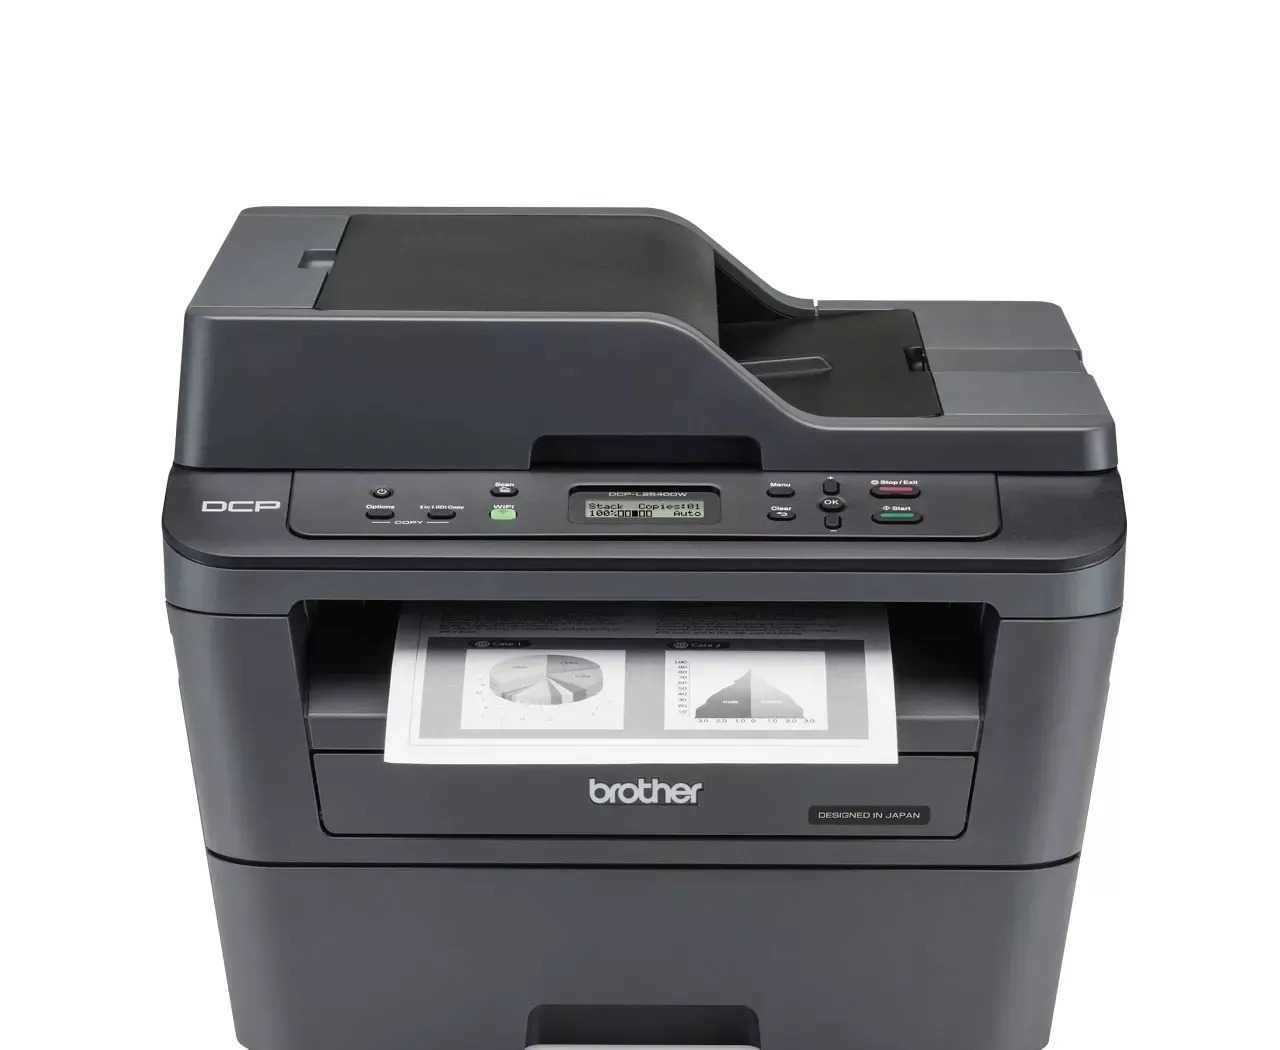
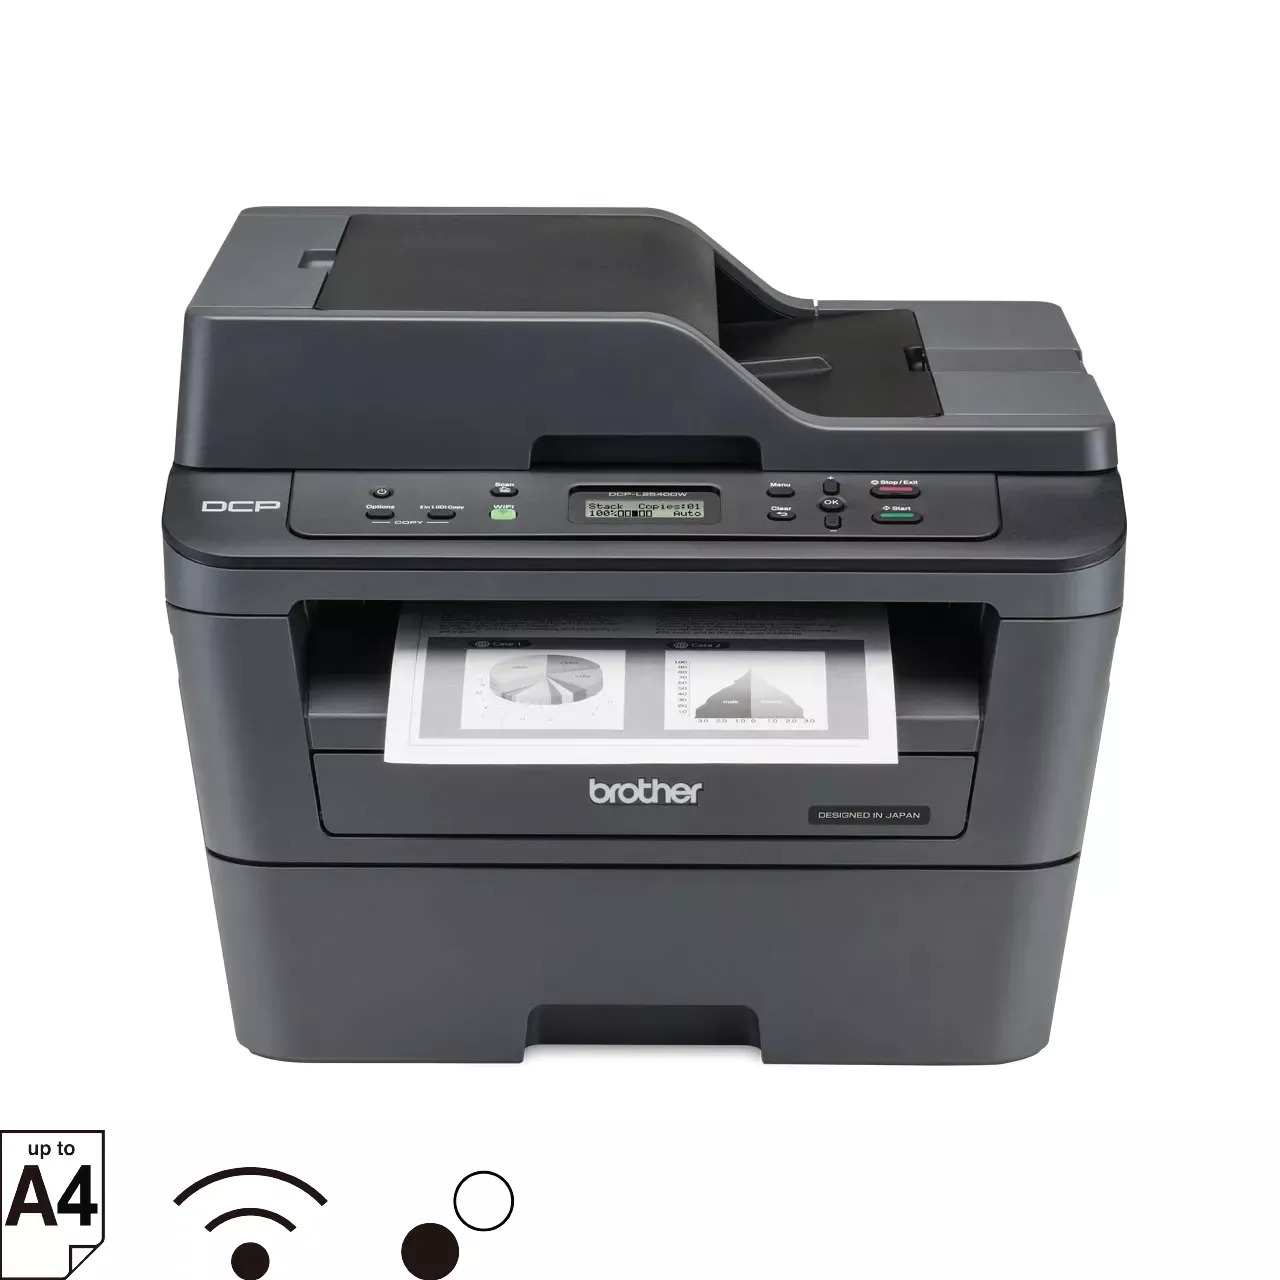
Add files via upload

diff --git a/index.html b/index.html
@@ -4,7 +4,7 @@
   <meta charset="UTF-8"/>
   <meta name="viewport" content="width=device-width, initial-scale=1.0"/>
   <title>Levo Box | Dealer Resmi Printer Brother Makassar</title>
-  <meta name="description" content="Levo Box — dealer resmi printer Brother DCP-L2540DW dan MFC-L2700D di Makassar. Garansi Resmi Brother 3 Tahun. Tinta Brother LC583 original tersedia. Jl. Bacan No. 5, Makassar."/>
+  <meta name="description" content="Levo Box — printer Brother, mesin jilid TATA (Hamburg, Kassel, e-WIRO, E-BIND, HP-2), tinta asli, dan perlengkapan kantor di Makassar. Dealer resmi. Jl. Bacan No. 5."/>
   <meta name="keywords" content="levo box makassar, printer brother makassar, dealer resmi brother, DCP-L2540DW, MFC-L2700D, tinta brother LC583, jual printer laser makassar"/>
   <link rel="canonical" href="https://levobox.com/"/>
   <link rel="alternate" hreflang="id" href="https://levobox.com/"/>
@@ -25,7 +25,7 @@
   "@context": "https://schema.org",
   "@type": "LocalBusiness",
   "name": "Levo Box",
-  "description": "Dealer resmi printer Brother dan perlengkapan kantor di Makassar.",
+  "description": "Dealer resmi printer Brother, mesin jilid TATA, tinta asli, dan perlengkapan kantor di Makassar.",
   "url": "https://levobox.com/",
   "telephone": "[phone redacted]",
   "image": "https://levobox.com/images/Brother_Banner_Solusi_Cetak_Yang_Andal_2.png",
@@ -100,6 +100,91 @@
             "availability": "https://schema.org/InStock"
           }
         }
+      },
+      {
+        "@type": "Offer",
+        "itemOffered": {
+          "@type": "Product",
+          "name": "TATA HP-2 HO-PUNCH",
+          "brand": {
+            "@type": "Brand",
+            "name": "TATA"
+          },
+          "description": "Mesin Pelubang Kertas 2-Lubang Berat, 520 lembar",
+          "offers": {
+            "@type": "Offer",
+            "priceCurrency": "IDR",
+            "availability": "https://schema.org/InStock"
+          }
+        }
+      },
+      {
+        "@type": "Offer",
+        "itemOffered": {
+          "@type": "Product",
+          "name": "TATA HAMBURG",
+          "brand": {
+            "@type": "Brand",
+            "name": "TATA"
+          },
+          "description": "Mesin Jilid Plastik Comb 24-Lubang",
+          "offers": {
+            "@type": "Offer",
+            "priceCurrency": "IDR",
+            "availability": "https://schema.org/InStock"
+          }
+        }
+      },
+      {
+        "@type": "Offer",
+        "itemOffered": {
+          "@type": "Product",
+          "name": "TATA KASSEL",
+          "brand": {
+            "@type": "Brand",
+            "name": "TATA"
+          },
+          "description": "Mesin Jilid 3-in-1 Plastik dan Kawat",
+          "offers": {
+            "@type": "Offer",
+            "priceCurrency": "IDR",
+            "availability": "https://schema.org/InStock"
+          }
+        }
+      },
+      {
+        "@type": "Offer",
+        "itemOffered": {
+          "@type": "Product",
+          "name": "TATA e-WIRO-31",
+          "brand": {
+            "@type": "Brand",
+            "name": "TATA"
+          },
+          "description": "Mesin Jilid Twin Loop Wire 34-Lubang 3:1",
+          "offers": {
+            "@type": "Offer",
+            "priceCurrency": "IDR",
+            "availability": "https://schema.org/InStock"
+          }
+        }
+      },
+      {
+        "@type": "Offer",
+        "itemOffered": {
+          "@type": "Product",
+          "name": "TATA E-BIND",
+          "brand": {
+            "@type": "Brand",
+            "name": "TATA"
+          },
+          "description": "Mesin Jilid Ekonomis 21-Lubang Single Handle",
+          "offers": {
+            "@type": "Offer",
+            "priceCurrency": "IDR",
+            "availability": "https://schema.org/InStock"
+          }
+        }
       }
     ]
   }
@@ -138,18 +223,7 @@
     .nav-inner{max-width:var(--mxw);margin:0 auto;display:flex;align-items:center;justify-content:space-between;padding:16px var(--px);gap:2rem}
     .nav-logo{display:flex;align-items:center;gap:10px;flex-shrink:0}
     /* 2×2 grid mark */
-    .mark{position:relative;flex-shrink:0}
-    .mark-grid{display:grid;grid-template-columns:1fr 1fr;grid-template-rows:1fr 1fr;gap:2px;width:34px;height:34px}
-    .mark-grid div:nth-child(1){background:var(--t1)}
-    .mark-grid div:nth-child(2){background:#B7BDC6}
-    .mark-grid div:nth-child(3){background:var(--t1)}
-    .mark-grid div:nth-child(4){background:transparent}
     /* light (footer) version */
-    .mark.lt .mark-grid div:nth-child(1){background:#fff}
-    .mark.lt .mark-grid div:nth-child(2){background:#5B6472}
-    .mark.lt .mark-grid div:nth-child(3){background:#fff}
-    .mark-text{display:flex;flex-direction:column;line-height:1.15}
-    .mark-name{font-weight:800;font-size:19px;letter-spacing:-0.01em;color:var(--t1)}
     .mark-name.lt{color:#fff}
     .mark-sub{font-size:11px;color:var(--t3);letter-spacing:0.01em}
     .mark-sub.lt{color:var(--muted)}
@@ -248,8 +322,6 @@
     .footer-inner{max-width:var(--mxw);margin:0 auto}
     .footer-top{display:flex;justify-content:space-between;gap:48px;flex-wrap:wrap;padding-bottom:40px}
     .footer-brand{max-width:280px}
-    .footer-brand-row{display:flex;align-items:center;gap:10px;margin-bottom:6px}
-    .footer-brand-name{font-weight:800;font-size:17px;color:#fff;letter-spacing:-.01em}
     .footer-brand-sub{font-size:11px;color:var(--muted);margin-bottom:12px}
     .footer-brand p{font-size:13.5px;line-height:1.6}
     .footer-links{display:flex;gap:64px;flex-wrap:wrap}
@@ -289,6 +361,33 @@
       .hero-trust{flex-direction:column;gap:10px}
       .footer-bottom{flex-direction:column}
     }
+
+    /* ══ BINDING MACHINES ══ */
+    .ta2col{display:grid;grid-template-columns:repeat(2,1fr);gap:28px}
+    .tac{background:var(--bg1);border:1px solid var(--bdr);border-radius:var(--rl);overflow:hidden;display:flex;flex-direction:column;box-shadow:var(--sh-s);transition:transform .2s,box-shadow .2s}
+    .tac:hover{transform:translateY(-3px);box-shadow:var(--sh-m)}
+    .tac-head{background:var(--navy-900);color:#fff;padding:16px 20px}
+    .tac-type{font-size:10px;font-weight:700;letter-spacing:.12em;text-transform:uppercase;opacity:.65;margin-bottom:4px}
+    .tac-name{font-size:21px;font-weight:800;line-height:1.1;letter-spacing:.01em}
+    .tac-sub{font-size:12px;opacity:.7;margin-top:3px}
+    .tac-img{background:#f8f9fb;border-bottom:1px solid var(--bdr)}
+    .tac-img img{width:100%;aspect-ratio:1/1;object-fit:contain;display:block}
+    .tac-body{padding:20px;display:flex;flex-direction:column;gap:16px;flex:1}
+    .tac-desc{font-size:13.5px;color:var(--t3);line-height:1.65}
+    .tac-table{width:100%;border-collapse:collapse;font-size:12.5px}
+    .tac-table tr:not(:last-child) td{border-bottom:1px solid var(--bdr)}
+    .tac-table td{padding:.45rem .35rem;vertical-align:top;line-height:1.4}
+    .tac-table td:first-child{color:var(--t3);font-weight:700;font-size:11px;text-transform:uppercase;letter-spacing:.04em;width:36%;padding-right:.6rem;white-space:nowrap}
+    .tac-table td:last-child{color:var(--t1);font-weight:500}
+    .tac-hi{font-weight:700;color:var(--blue)}
+    .tac-tags{display:flex;flex-wrap:wrap;gap:6px;padding-top:12px;border-top:1px solid var(--bdr)}
+    .tac-tag{background:var(--tag);color:var(--t2);font-size:11px;font-weight:600;padding:3px 10px;border-radius:999px}
+    .tac-warranty{display:inline-flex;align-items:center;gap:5px;background:#FFF8E1;color:#7B5800;border:1px solid #F0D070;font-size:11.5px;font-weight:700;padding:4px 10px;border-radius:999px}
+    .tac-footer{padding:16px 20px;border-top:1px solid var(--bdr);display:flex;align-items:center;justify-content:space-between}
+    .tac-cta{font-size:13.5px;font-weight:700;color:var(--blue);transition:color .15s}
+    .tac-cta:hover{color:var(--navy-800)}
+    @media(max-width:768px){.ta2col{grid-template-columns:1fr}}
+
   </style>
 </head>
 <body>
@@ -296,26 +395,18 @@
 <!-- ═══ NAV ═══ -->
 <nav>
   <div class="nav-inner">
-    <div class="nav-logo">
-      <div class="mark">
-        <div class="mark-grid"><div></div><div></div><div></div><div></div></div>
-        <svg style="position:absolute;top:-11px;right:-19px;overflow:visible" width="20" height="20" viewBox="0 0 24 24" fill="none">
-          <rect x="0" y="13" width="8" height="8" rx="1" fill="#666" transform="rotate(-15 4 17)"/>
-          <rect x="6" y="6"  width="6.5" height="6.5" rx="1" fill="#999" transform="rotate(-15 9.25 9.25)"/>
-          <rect x="12" y="0" width="5" height="5" rx="1" fill="#BBB" transform="rotate(-15 14.5 2.5)"/>
-        </svg>
-      </div>
-      <div class="mark-text">
-        <span class="mark-name">LEVOBOX</span>
-        <span class="mark-sub id">Dealer Resmi Brother · Makassar</span>
-        <span class="mark-sub en">Brother Authorized Partner · Makassar</span>
-      </div>
+    <div class="nav-logo" style="display:flex;flex-direction:column;gap:3px">
+      <img src="images/Logo_LevoBox_Horizontal.png" alt="Levo Box"
+           style="height:34px;width:auto;display:block;filter:brightness(0) invert(1)">
+      <span class="mark-sub id">Dealer Resmi Brother · Makassar</span>
+      <span class="mark-sub en">Brother Authorized Partner · Makassar</span>
     </div>
 
     <div class="nav-links-row">
       <a href="#printers" class="id">Printer</a><a href="#printers" class="en">Printers</a>
       <a href="#ink" class="id">Tinta</a><a href="#ink" class="en">Ink &amp; Toner</a>
       <a href="#supplies" class="id">Perlengkapan</a><a href="#supplies" class="en">Office Supplies</a>
+      <a href="#binding" class="id">Mesin Jilid</a><a href="#binding" class="en">Binding</a>
       <a href="#contact" class="id">Kontak</a><a href="#contact" class="en">Contact</a>
     </div>
 
@@ -376,7 +467,7 @@
       <!-- DCP-L2540DW -->
       <div class="pc">
         <div class="pc-img" style="position:relative;background:#fff;padding:0;overflow:hidden">
-          <img loading="lazy" src="images/Brother_Printer_DCP_L2540DW.jpg" alt="Brother DCP-L2540DW" style="width:100%;aspect-ratio:1/1;object-fit:contain;background:#f8f9fb;display:block">
+          <img loading="lazy" src="images/Brother_Printer_DCP_L2540DW.jpg" alt="Brother DCP-L2540DW" style="width:100%;height:auto;display:block">
           <span style="position:absolute;bottom:10px;left:50%;transform:translateX(-50%);background:var(--blue);color:#fff;font-size:11px;font-weight:700;padding:4px 14px;border-radius:999px;white-space:nowrap" class="id">2 Unit Tersedia</span>
           <span style="position:absolute;bottom:10px;left:50%;transform:translateX(-50%);background:var(--blue);color:#fff;font-size:11px;font-weight:700;padding:4px 14px;border-radius:999px;white-space:nowrap" class="en">2 Units In Stock</span>
           
@@ -415,7 +506,7 @@
       <!-- MFC-L2700D -->
       <div class="pc">
         <div class="pc-img" style="position:relative;background:#fff;padding:0;overflow:hidden">
-          <img src="images/Brother_Printer_MFC_L2700D.jpg" alt="Brother MFC-L2700D" style="width:100%;aspect-ratio:1/1;object-fit:contain;background:#f8f9fb;display:block" loading="lazy">
+          <img src="images/Brother_Printer_MFC_L2700D.jpg" alt="Brother MFC-L2700D" style="width:100%;height:auto;display:block" loading="lazy">
           <span style="position:absolute;bottom:10px;left:50%;transform:translateX(-50%);background:var(--blue);color:#fff;font-size:11px;font-weight:700;padding:4px 14px;border-radius:999px;white-space:nowrap" class="id">3 Unit Tersedia</span>
           <span style="position:absolute;bottom:10px;left:50%;transform:translateX(-50%);background:var(--blue);color:#fff;font-size:11px;font-weight:700;padding:4px 14px;border-radius:999px;white-space:nowrap" class="en">3 Units In Stock</span>
 
@@ -712,17 +803,133 @@
   </div>
 </section>
 
+<!-- ═══ MESIN BINDING & JILID ═══ -->
+<section id="binding" class="section" style="background:var(--bg2)">
+  <div class="wrap">
+    <span class="eyebrow id">MESIN BINDING &amp; JILID</span>
+    <span class="eyebrow en">BINDING &amp; PUNCHING MACHINES</span>
+    <h2 class="sh id">Mesin jilid &amp; pelubang TATA untuk kantor profesional</h2>
+    <h2 class="sh en">TATA binding &amp; punching machines for professional offices</h2>
+    <p class="sh-p id">Mesin TATA dari Taiwan — konstruksi all-metal, standar kualitas Eropa, diproduksi sejak 1970-an. Tersedia di Levo Box Makassar.</p>
+    <p class="sh-p en">TATA machines from Taiwan — all-metal construction, European quality standards, since the 1970s. Available at Levo Box Makassar.</p>
+    <div class="ta2col">
+      <div class="tac">
+        <div class="tac-head">
+          <div class="tac-type">2-Hole Punch</div>
+          <div class="tac-name">HP-2 HO-PUNCH</div>
+          <div class="tac-sub">Model HP-2</div>
+        </div>
+        <div class="tac-img">
+          <img src="images/tata-hp2.jpg" alt="TATA HP-2 HO-PUNCH" loading="lazy">
+        </div>
+        <div class="tac-body">
+          <p class="tac-desc id">Mesin pelubang kertas berat dengan kapasitas 520 lembar sekaligus — pilihan utama untuk kantor, percetakan, dan institusi pendidikan dengan volume pelubangan tinggi. Sistem transmisi langsung memastikan pelubangan akurat dan tahan lama.</p>
+          <p class="tac-desc en">Heavy-duty 2-hole paper punch with 520-sheet capacity — the go-to for offices, print shops, and educational institutions with high punching volumes. Direct-drive transmission ensures precise, long-lasting performance.</p>
+          <table class="tac-table"><tr><td>Kapasitas Punch</td><td><span class="tac-hi">520 lembar (32 mm)</span></td></tr><tr><td>Jumlah Lubang</td><td>2 lubang</td></tr><tr><td>Diameter Lubang</td><td>6 mm &amp; 8 mm (pilihan)</td></tr><tr><td>Jarak Lubang</td><td>70 mm &amp; 80 mm (atur)</td></tr><tr><td>Dimensi</td><td>340L × 145W × 263H mm</td></tr><tr><td>Berat</td><td>6,2 – 6,7 kg</td></tr><tr><td>Penggerak</td><td>Direct-drive power transmission</td></tr><tr><td>Panduan Kertas</td><td>Adjustable gauge — semua ukuran</td></tr><tr><td>Laci Serbuk</td><td>Sliding drawer (one-touch disposal)</td></tr><tr><td>Suku Cadang</td><td>Punch Disk HP-D · Punch Pin HP-P</td></tr></table>
+          <div class="tac-tags"><span class="tac-tag">Heavy Duty</span><span class="tac-tag">2-Hole</span><span class="tac-tag">All Paper Sizes</span></div>
+        </div>
+        <div class="tac-footer">
+          <a href="https://wa.me/62895412755181?text=Halo+Levo+Box,+saya+ingin+info+mesin+HP-2+HO-PUNCH" target="_blank" class="tac-cta id">Cek ketersediaan →</a>
+          <a href="https://wa.me/62895412755181?text=Halo+Levo+Box,+saya+ingin+info+mesin+HP-2+HO-PUNCH" target="_blank" class="tac-cta en">Check availability →</a>
+        </div>
+      </div>
+      <div class="tac">
+        <div class="tac-head">
+          <div class="tac-type">Plastic Punch-Bind Machine</div>
+          <div class="tac-name">HAMBURG</div>
+          <div class="tac-sub">24-Hole Comb Binding</div>
+        </div>
+        <div class="tac-img">
+          <img src="images/tata-hamburg.jpg" alt="TATA HAMBURG" loading="lazy">
+        </div>
+        <div class="tac-body">
+          <p class="tac-desc id">Mesin jilid comb plastik profesional dengan rangka dan mekanisme all-metal. Desain double-handle khas Eropa memungkinkan pelubangan lebih ringan dan cepat. Mekanisme pembuka comb terpisah memegang comb dalam posisi terbuka untuk proses jilid langsung.</p>
+          <p class="tac-desc en">Professional plastic comb binding machine with all-metal chassis and mechanism. The European double-handle design makes punching lighter and faster. A separate comb opener holds combs open for direct binding.</p>
+          <table class="tac-table"><tr><td>Jumlah Lubang</td><td><span class="tac-hi">24 lubang (1–24 pilihan)</span></td></tr><tr><td>Kapasitas Punch</td><td>30 lembar sekaligus</td></tr><tr><td>Kapasitas Bind</td><td><span class="tac-hi">500 lembar (comb hingga 51 mm)</span></td></tr><tr><td>Ukuran Kertas</td><td>A5 hingga A4 / Folio (B4 foolscap)</td></tr><tr><td>Lebar Punch</td><td>340 mm (B4 foolscap)</td></tr><tr><td>Kec. Punch</td><td>7.000 lembar / jam</td></tr><tr><td>Kec. Bind</td><td>500 buku / jam</td></tr><tr><td>Handle</td><td>European double-handle design</td></tr><tr><td>Dimensi</td><td>425L × 320W × 220H mm</td></tr><tr><td>Berat</td><td>12,5 kg</td></tr><tr><td>Konstruksi</td><td>All-metal chassis &amp; mechanism</td></tr></table>
+          <div class="tac-tags"><span class="tac-tag">Comb Binding</span><span class="tac-tag">A5 – Folio</span><span class="tac-tag">Double Handle</span><span class="tac-tag">Selectable Pins</span><span class="tac-warranty">⭐ 3 Tahun Garansi</span></div>
+        </div>
+        <div class="tac-footer">
+          <a href="https://wa.me/62895412755181?text=Halo+Levo+Box,+saya+ingin+info+mesin+HAMBURG" target="_blank" class="tac-cta id">Cek ketersediaan →</a>
+          <a href="https://wa.me/62895412755181?text=Halo+Levo+Box,+saya+ingin+info+mesin+HAMBURG" target="_blank" class="tac-cta en">Check availability →</a>
+        </div>
+      </div>
+      <div class="tac">
+        <div class="tac-head">
+          <div class="tac-type">Double-Loop Wire Punch-Bind Machine</div>
+          <div class="tac-name">KASSEL</div>
+          <div class="tac-sub">3-in-1: Punch + Comb + Wire Binding</div>
+        </div>
+        <div class="tac-img">
+          <img src="images/tata-kassel.jpg" alt="TATA KASSEL" loading="lazy">
+        </div>
+        <div class="tac-body">
+          <p class="tac-desc id">Mesin jilid serbaguna 3-in-1: pelubang kertas, jilid plastik comb, dan jilid kawat double-loop — semuanya dalam satu mesin. Lubang persegi 3×8 mm memungkinkan penggunaan ring kawat spiral maupun comb plastik. Cocok untuk kantor yang membutuhkan dua format jilid dalam satu mesin.</p>
+          <p class="tac-desc en">Versatile 3-in-1 binding machine: punch, plastic comb binding, and double-loop wire binding — all in one unit. The 3×8 mm rectangular holes accommodate both wire rings and plastic combs. Ideal for offices that need two binding formats in a single machine.</p>
+          <table class="tac-table"><tr><td>Jumlah Lubang</td><td><span class="tac-hi">24 lubang (1–24 pilihan)</span></td></tr><tr><td>Kapasitas Punch</td><td>25 lembar sekaligus</td></tr><tr><td>Kapasitas Bind</td><td><span class="tac-hi">500 lembar (comb) / 140 lembar (kawat)</span></td></tr><tr><td>Tipe Lubang</td><td>Persegi 3 × 8 mm</td></tr><tr><td>Pitch Kawat</td><td>9:16 (14,3 mm) — 2:1 pitch</td></tr><tr><td>Ukuran Kertas</td><td>A4 / Folio — hingga foolscap</td></tr><tr><td>Kec. Punch</td><td>7.000 lembar / jam</td></tr><tr><td>Kec. Bind</td><td>500 buku / jam</td></tr><tr><td>Handle</td><td>Double-handle</td></tr><tr><td>Dimensi</td><td>425L × 320W × 225H mm</td></tr><tr><td>Berat</td><td>13,8 kg</td></tr><tr><td>Konstruksi</td><td>All-metal chassis &amp; mechanism</td></tr></table>
+          <div class="tac-tags"><span class="tac-tag">Wire Binding</span><span class="tac-tag">Comb Binding</span><span class="tac-tag">3-in-1</span><span class="tac-tag">Rect. Holes</span><span class="tac-warranty">⭐ 3 Tahun Garansi</span></div>
+        </div>
+        <div class="tac-footer">
+          <a href="https://wa.me/62895412755181?text=Halo+Levo+Box,+saya+ingin+info+mesin+KASSEL" target="_blank" class="tac-cta id">Cek ketersediaan →</a>
+          <a href="https://wa.me/62895412755181?text=Halo+Levo+Box,+saya+ingin+info+mesin+KASSEL" target="_blank" class="tac-cta en">Check availability →</a>
+        </div>
+      </div>
+      <div class="tac">
+        <div class="tac-head">
+          <div class="tac-type">Twin Loop Wire Punch-Bind Machine</div>
+          <div class="tac-name">e-WIRO-31</div>
+          <div class="tac-sub">34-Hole · 3:1 Pitch</div>
+        </div>
+        <div class="tac-img">
+          <img src="images/tata-ewiro31.jpg" alt="TATA e-WIRO-31" loading="lazy">
+        </div>
+        <div class="tac-body">
+          <p class="tac-desc id">Mesin jilid twin loop wire (Wire-O) dengan pitch 3:1 — menghasilkan dokumen berkelas yang bisa dibuka 360° rata sempurna. Ideal untuk buku catatan, kalender meja, materi presentasi, dan laporan yang sering perlu dibuka penuh. Seluruh 34 lubang dipunch bersamaan untuk efisiensi maksimum.</p>
+          <p class="tac-desc en">Twin loop Wire-O binding machine with 3:1 pitch — produces premium documents that open a full 360°. Ideal for notebooks, desk calendars, presentation materials, and reports that need to lie completely flat. All 34 holes punch simultaneously for maximum efficiency.</p>
+          <table class="tac-table"><tr><td>Jumlah Lubang</td><td><span class="tac-hi">34 lubang (pitch 3:1)</span></td></tr><tr><td>Kapasitas Punch</td><td>25 lembar (64 gsm)</td></tr><tr><td>Kapasitas Bind</td><td><span class="tac-hi">140 lembar (wire ring 25 mm)</span></td></tr><tr><td>Tipe Lubang</td><td>4 × 4 mm persegi</td></tr><tr><td>Pitch Kawat</td><td>3:1 (8,46 mm)</td></tr><tr><td>Ukuran Kertas</td><td>A4 / Folio</td></tr><tr><td>Buka Halaman</td><td>360° — halaman terbuka rata sempurna</td></tr><tr><td>Dimensi</td><td>425L × 320W × 220H mm</td></tr><tr><td>Kawat Kompatibel</td><td>Standard 3:1 twin loop wire spines</td></tr><tr><td>Konstruksi</td><td>All-metal chassis</td></tr></table>
+          <div class="tac-tags"><span class="tac-tag">Wire-O · 3:1 Pitch</span><span class="tac-tag">34 Holes</span><span class="tac-tag">A4 / Folio</span><span class="tac-tag">360° Rotation</span></div>
+        </div>
+        <div class="tac-footer">
+          <a href="https://wa.me/62895412755181?text=Halo+Levo+Box,+saya+ingin+info+mesin+e-WIRO-31" target="_blank" class="tac-cta id">Cek ketersediaan →</a>
+          <a href="https://wa.me/62895412755181?text=Halo+Levo+Box,+saya+ingin+info+mesin+e-WIRO-31" target="_blank" class="tac-cta en">Check availability →</a>
+        </div>
+      </div>
+      <div class="tac">
+        <div class="tac-head">
+          <div class="tac-type">Economical Plastic Comb Punch-Bind</div>
+          <div class="tac-name">E-BIND</div>
+          <div class="tac-sub">21-Hole · Single Handle</div>
+        </div>
+        <div class="tac-img">
+          <img src="images/tata-ebind.jpg" alt="TATA E-BIND" loading="lazy">
+        </div>
+        <div class="tac-body">
+          <p class="tac-desc id">Mesin jilid comb plastik yang ekonomis dan ringkas untuk kantor kecil hingga menengah. Handle tunggal menangani fungsi pelubang sekaligus pembuka comb — cukup tekan satu tuas untuk semua fungsi. Konstruksi all-metal memastikan ketahanan jangka panjang.</p>
+          <p class="tac-desc en">An economical, compact comb binding machine for small to medium offices. The single handle manages both punching and comb-opening functions — one lever for everything. All-metal construction ensures long-term durability despite the accessible price point.</p>
+          <table class="tac-table"><tr><td>Jumlah Lubang</td><td><span class="tac-hi">21 lubang</span></td></tr><tr><td>Kapasitas Punch</td><td>15 lembar sekaligus</td></tr><tr><td>Kapasitas Bind</td><td><span class="tac-hi">200 lembar (comb 22 mm)</span></td></tr><tr><td>Handle</td><td>Single handle (punch &amp; bind)</td></tr><tr><td>Panduan Kertas</td><td>Adjustable paper size guide</td></tr><tr><td>Kec. Punch</td><td>5.600 lembar / jam</td></tr><tr><td>Kec. Bind</td><td>500 buku / jam</td></tr><tr><td>Dimensi</td><td>460L × 260W × 355H mm</td></tr><tr><td>Berat</td><td>5,6 kg</td></tr><tr><td>Konstruksi</td><td>All-metal chassis &amp; mechanism</td></tr></table>
+          <div class="tac-tags"><span class="tac-tag">Economical</span><span class="tac-tag">Comb Binding</span><span class="tac-tag">21 Holes</span><span class="tac-tag">Single Handle</span><span class="tac-tag">Compact</span></div>
+        </div>
+        <div class="tac-footer">
+          <a href="https://wa.me/62895412755181?text=Halo+Levo+Box,+saya+ingin+info+mesin+E-BIND" target="_blank" class="tac-cta id">Cek ketersediaan →</a>
+          <a href="https://wa.me/62895412755181?text=Halo+Levo+Box,+saya+ingin+info+mesin+E-BIND" target="_blank" class="tac-cta en">Check availability →</a>
+        </div>
+      </div>
+    </div>
+    <div class="tip-box" style="margin-top:24px">
+      <span style="font-size:1.1rem;flex-shrink:0;margin-top:2px">🏭</span>
+      <p class="id"><strong>TATA Office Products Inc. — Taiwan, sejak 1970-an.</strong> Seluruh rangka dan mekanisme menggunakan konstruksi all-metal dengan standar kualitas Eropa. Suku cadang tersedia: Punch Disk HP-D &amp; Punch Pin HP-P untuk HP-2.</p>
+      <p class="en"><strong>TATA Office Products Inc. — Taiwan, since the 1970s.</strong> All chassis and mechanisms use all-metal construction to European quality standards. Spare parts available: Punch Disk HP-D &amp; Punch Pin HP-P for the HP-2.</p>
+    </div>
+  </div>
+</section>
+
+
 <!-- ═══ FOOTER ═══ -->
 <footer id="contact">
   <div class="footer-inner">
     <div class="footer-top">
       <div class="footer-brand">
-        <div class="footer-brand-row">
-          <div class="mark lt">
-            <div class="mark-grid"><div></div><div></div><div></div><div></div></div>
-          </div>
-          <span class="footer-brand-name">LEVOBOX</span>
-        </div>
+        <img src="images/Logo_LevoBox_Horizontal.png" alt="Levo Box"
+          style="height:30px;width:auto;display:block;filter:brightness(0) invert(1);margin-bottom:8px">
         <div class="footer-brand-sub id">Dealer Resmi Brother · Makassar</div>
         <div class="footer-brand-sub en">Brother Authorized Partner · Makassar</div>
         <p class="id">Kepuasan Anda, Prioritas Kami. Dealer resmi printer Brother, tinta asli, dan perlengkapan kantor di Makassar.</p>